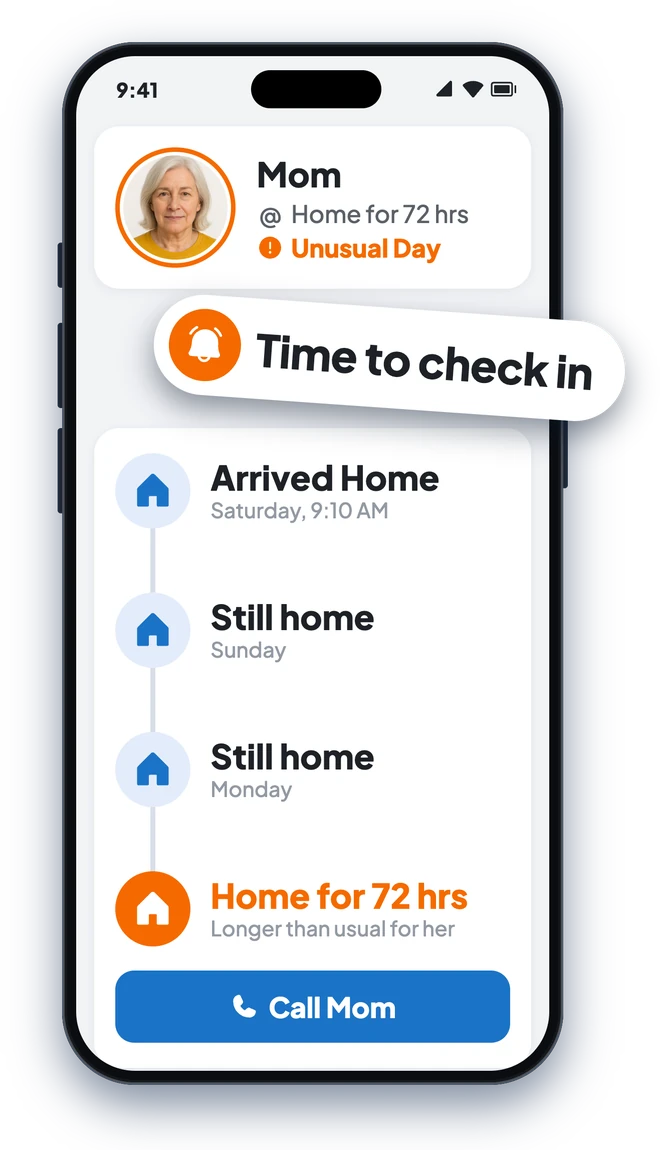
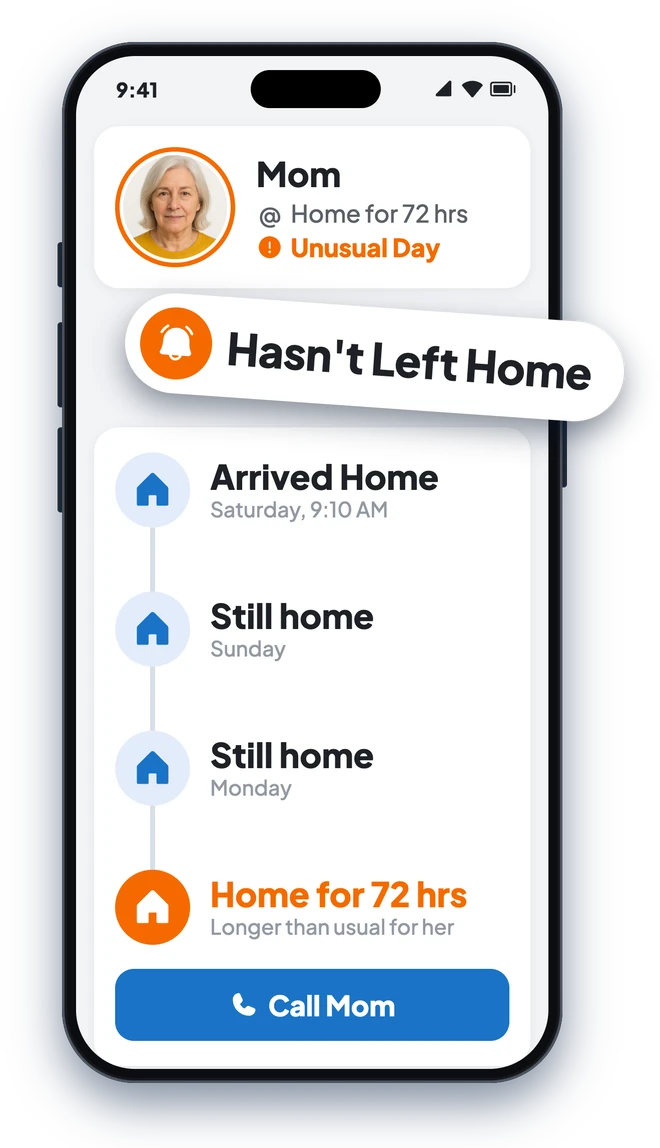
Mom's 72-hour image: pill reads "Hasn't Left Home"

diff --git a/for-aging-parents.html b/for-aging-parents.html
@@ -62,7 +62,7 @@
         <p>Mom has her routine. If she's been home much longer than is normal for her, Looop gives you a gentle nudge. Might be a good time to&nbsp;call.</p>
       </div>
       <div class="split-media product-shot single">
-        <img src="images/home/phone-home72.webp" width="660" height="1150" loading="lazy" alt="The Looop app showing Mom at home for 72 hours with a Time to check in nudge: she arrived home Saturday, was still home Sunday and Monday, and has now been home longer than usual for her, with a Call Mom button">
+        <img src="images/home/phone-home72.webp?v=2" width="660" height="1148" loading="lazy" alt="The Looop app showing Mom at home for 72 hours with a Hasn't Left Home alert: she arrived home Saturday, was still home Sunday and Monday, and has now been home longer than usual for her, with a Call Mom button">
       </div>
     </div>
   </section>

diff --git a/index.html b/index.html
@@ -173,7 +173,7 @@
       </div>
       <div class="trio" style="margin-top:0">
         <article>
-          <div class="art"><img loading="lazy" src="images/home/phone-home72.webp" alt="The Looop app showing Mom at home for 72 hours, longer than usual for her, with a Time to check in nudge"></div>
+          <div class="art"><img loading="lazy" src="images/home/phone-home72.webp?v=2" alt="The Looop app showing Mom at home for 72 hours, longer than usual for her, with a Hasn't Left Home alert"></div>
           <div class="txt"><h3>Home longer than&nbsp;usual?</h3><p>If Mom has been home much longer than is normal for her, you get a gentle&nbsp;nudge.</p></div>
         </article>
         <article>

diff --git a/CHANGELOG.md b/CHANGELOG.md
@@ -78,5 +78,7 @@ Changes to thelooopapp.com, newest first. This file is not published (see `_conf
 
 - Aging parents, hospital section: the question is now "Did Dad tell you he's at the hospital?" (was "Would Dad tell you..."), which is less pointed.
 
+- Mom's 72-hour image (`images/home/phone-home72.webp`, Aging parents and homepage): the floating pill now reads "Hasn't Left Home" instead of "Time to check in".
+
 ### Housekeeping
 - Started this changelog and excluded it from the published site.
